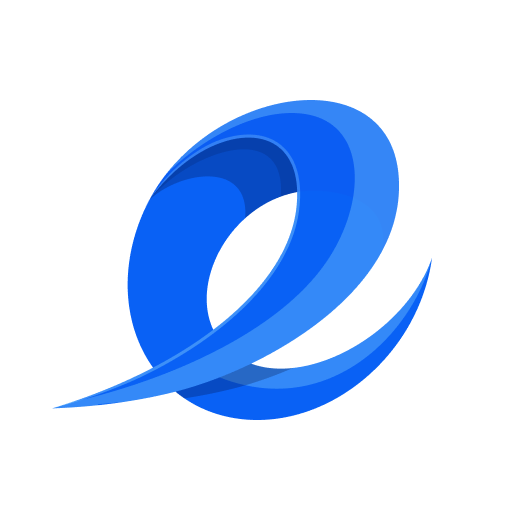
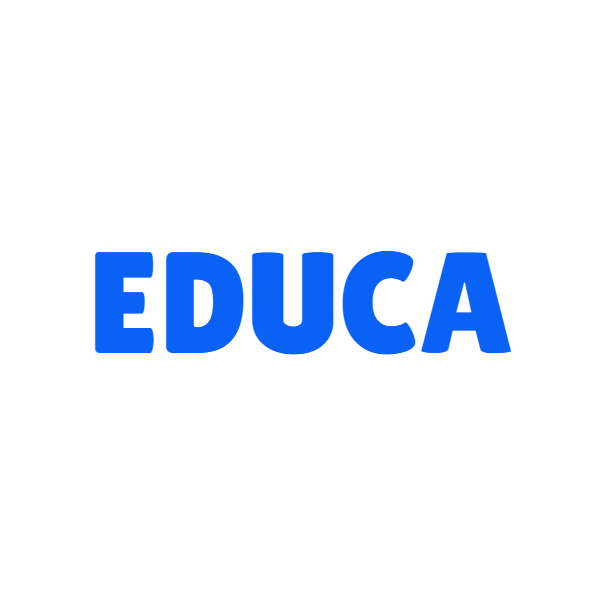
Update app assets and UI components
- Add new animation for login screen
- Update logo and banner images
- Modify app icons for iOS
- Refactor UI components for login and quiz result views
- Adjust timing for splash screen transition
- Pass number of questions to quiz result view
- Improve UI layout in quiz view body
- Fix navigation delay in splash view
- Clean up unused imports and code segments

Changed region(s): [[0.0923, 0.1846, 0.8615, 0.8308], [0.3077, 0.4615, 0.3692, 0.5538]]

diff --git a/lib/student_features/quiz/presentation/widgets/quiz_result_view_body.dart b/lib/student_features/quiz/presentation/widgets/quiz_result_view_body.dart
@@ -8,8 +8,9 @@ import 'package:lottie/lottie.dart';
 import '../../../../Core/utils/routes.dart';
 
 class QuizResultViewBody extends StatelessWidget {
-  const QuizResultViewBody({super.key});
+  const QuizResultViewBody({super.key, required this.numberOfQuestions});
 
+  final int numberOfQuestions;
   @override
   Widget build(BuildContext context) {
     return Padding(
@@ -46,11 +47,11 @@ class QuizResultViewBody extends StatelessWidget {
           //   textAlign: TextAlign.end,
           // ),
           SizedBox(height: 35.h),
-          const Row(
+          Row(
             mainAxisAlignment: MainAxisAlignment.spaceEvenly,
             children: [
-              QuizDegree(left: 80, right: 100),
-              QuizDegree(left: 19, right: 25),
+              const QuizDegree(left: 80, right: 100),
+              QuizDegree(left: 19, right: numberOfQuestions),
             ],
           ),
           Expanded(child: SizedBox(height: 30.h)),

diff --git a/lib/student_features/auth/presentation/widgets/custom_logo.dart b/lib/student_features/auth/presentation/widgets/custom_logo.dart
@@ -1,27 +1,16 @@
 import 'package:flutter/material.dart';
-import 'package:flutter_screenutil/flutter_screenutil.dart';
-import 'package:google_fonts/google_fonts.dart';
+import 'package:lottie/lottie.dart';
 
 class CustomLogo extends StatelessWidget {
   const CustomLogo({super.key});
 
   @override
   Widget build(BuildContext context) {
-    return Column(
-      mainAxisAlignment: MainAxisAlignment.center,
-      children: [
-        Row(
-          mainAxisAlignment: MainAxisAlignment.center,
-          children: [
-            Image.asset(
-              "assets/images/logo.png",
-              width: 75.w,
-            ),
-            SizedBox(width: 10.w),
-            Text("EDUCA", style: GoogleFonts.lilitaOne(fontSize: 38.sp))
-          ],
-        ),
-      ],
+    return Center(
+      child: Lottie.asset(
+        "assets/animation/login.json",
+        frameRate: FrameRate.max,
+      ),
     );
   }
 }

diff --git a/lib/student_features/quiz/presentation/views/quiz_result_view.dart b/lib/student_features/quiz/presentation/views/quiz_result_view.dart
@@ -3,12 +3,14 @@ import 'package:flutter/material.dart';
 import '../widgets/quiz_result_view_body.dart';
 
 class QuizResultView extends StatelessWidget {
-  const QuizResultView({super.key});
+  const QuizResultView({super.key, required this.numberOfQuestions});
+  final int numberOfQuestions;
 
   @override
   Widget build(BuildContext context) {
-    return const Scaffold(
-      body: SafeArea(child: QuizResultViewBody()),
+    return Scaffold(
+      body: SafeArea(
+          child: QuizResultViewBody(numberOfQuestions: numberOfQuestions)),
     );
   }
 }

diff --git a/lib/student_features/splash/presentation/views/splash_view.dart b/lib/student_features/splash/presentation/views/splash_view.dart
@@ -21,13 +21,13 @@ class _SplashViewState extends State<SplashView> {
   void initState() {
     super.initState();
 
-    Future.delayed(const Duration(milliseconds: 500), () {
+    Future.delayed(const Duration(milliseconds: 400), () {
       setState(() {
         start = true;
       });
     });
 
-    Future.delayed(const Duration(milliseconds: 1800), () {
+    Future.delayed(const Duration(milliseconds: 2000), () {
       Navigator.pushReplacementNamed(
         context,
         CacheHelper.getData(key: introScreenKey) == true

diff --git a/lib/student_features/auth/presentation/widgets/login_view_body.dart b/lib/student_features/auth/presentation/widgets/login_view_body.dart
@@ -23,10 +23,11 @@ class LoginViewBody extends StatelessWidget {
     return Column(
       children: [
         const Expanded(
+          flex: 3,
           child: CustomLogo(),
         ),
         Expanded(
-          flex: 2,
+          flex: 5,
           child: Container(
             width: double.infinity,
             padding: const EdgeInsets.only(left: 20, right: 20, top: 25),

diff --git a/lib/Core/utils/app_router.dart b/lib/Core/utils/app_router.dart
@@ -201,8 +201,9 @@ class AppRouter {
           ),
         );
       case Routes.quizResultViewRoute:
+        var args = settings.arguments as int;
         return MaterialPageRoute(
-          builder: (context) => const QuizResultView(),
+          builder: (context) => QuizResultView(numberOfQuestions: args),
         );
       default:
         return MaterialPageRoute(

diff --git a/lib/student_features/quiz/presentation/widgets/quiz_view_body.dart b/lib/student_features/quiz/presentation/widgets/quiz_view_body.dart
@@ -84,6 +84,7 @@ class QuizViewBody extends StatelessWidget {
                     Navigator.pushReplacementNamed(
                       context,
                       Routes.quizResultViewRoute,
+                      arguments: questions.length,
                     );
                   }
                 },
